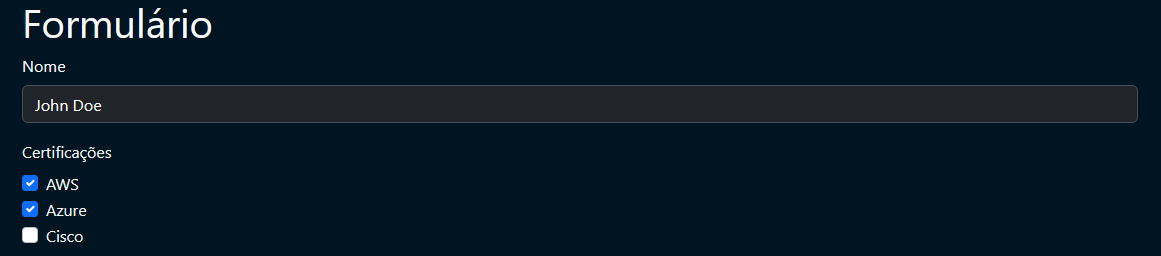
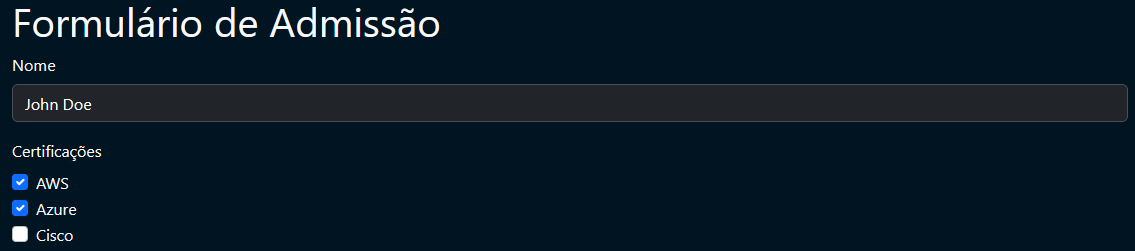
Added form appointment

diff --git a/frontend-angular/src/app/components/criar-formulario/criar-formulario.component.ts b/frontend-angular/src/app/components/criar-formulario/criar-formulario.component.ts
@@ -7,17 +7,19 @@ import { Router } from '@angular/router';
   styleUrls: ['./criar-formulario.component.scss']
 })
 export class CriarFormularioComponent {
+  nomeForms: String;
   maxCampos: Number = 5;
   campos: Array<CampoInterface>;
   tiposCampos = [
     {id: 0, nome: "Texto Simples"},
     {id: 1, nome: "Texto Grande"},
-    {id: 2, nome: "Combo Box"}
+    {id: 2, nome: "Check Box"}
   ];
   msgErro: String = "";
   msg: String = "";
 
   constructor(private router: Router) {
+    this.nomeForms = "";
     this.campos = new Array();
   }
 
@@ -35,9 +37,15 @@ export class CriarFormularioComponent {
     var flagErro = 0;
 
     // Filtragem
+    if(this.nomeForms === "") {
+      this.msgErro = "Insira um nome para o formulário";
+      flagErro = -1;
+      return;
+    }
     if(this.campos.length <= 0) {
       this.msgErro = "Nenhum campo adicionado";
-        return;
+      flagErro = -1;
+      return;
     }
     this.campos.forEach(campo => {
       if(typeof campo.label !== 'string' || campo.label.length === 0) {
@@ -60,6 +68,7 @@ export class CriarFormularioComponent {
         flagErro = -1;
         return;
       }
+      campo.nomeFormulario = this.nomeForms;
     });
     
     if(flagErro === -1) return; 

diff --git a/backend/app/controllers/postagem.controller.js b/backend/app/controllers/postagem.controller.js
@@ -5,14 +5,19 @@ const criarPostagem = async (req, res, next) => {
     var message = "";
     var corpo = {};
     if(req.body !== null) {
+        var nomeFormulario;
         for(let i=0;i<req.body.length;i++) {
-            if(req.body[i].idCampo !== null && req.body[i].resposta !== null) {
+            if(req.body[i].idCampo !== null && req.body[i].resposta !== null && req.body[i].nomeFormulario !== null) {
                 let idCampo = req.body[i].idCampo;
                 let resposta = req.body[i].resposta;
+                nomeFormulario = req.body[i].nomeFormulario;
                 corpo[idCampo] = resposta;
             }
         }
+        console.log(nomeFormulario);
+        console.log(corpo);
         await Post.create({
+            nomeForm: nomeFormulario,
             respostas: corpo
         }).then(data => {
             status = 200;

diff --git a/frontend-angular/src/app/components/preencher-formulario/preencher-formulario.component.ts b/frontend-angular/src/app/components/preencher-formulario/preencher-formulario.component.ts
@@ -51,6 +51,7 @@ export class PreencherFormularioComponent {
       // Inicia cada slot da variável post com base na interface de post
       this.posts[i] = {} as PostInterface;
       this.posts[i].idCampo = this.campos[i].idCampo;
+      this.posts[i].nomeFormulario = this.campos[i].nomeFormulario;
       
       // Se for do tipo Checkbox, buscamos a id no dicionario de checkboxes e atribuimos à resposta
       if(this.campos[i].tipo === 2) {
@@ -60,7 +61,8 @@ export class PreencherFormularioComponent {
             this.posts[i].resposta = this.checkbox[key];
           }
         }
-      }else {
+
+      } else {
         // Filtro de textos
         if(this.resposta[i] == null) {
           this.msgErro = "Preencha os campos de texto";

diff --git a/frontend-angular/src/app/components/criar-formulario/criar-formulario.component.html b/frontend-angular/src/app/components/criar-formulario/criar-formulario.component.html
@@ -1,5 +1,8 @@
 <div class="container mt-5">
     <h1 class="text-light ps-3">Parametrização de Formulário</h1>
+    <div class="input-group input-group-lg" width="50%">
+        <input [(ngModel)]="this.nomeForms" type="text" class="form-control" placeholder="Nome do Formulário">
+      </div>
     <table class="table table-dark table-bordered mt-3">
         <thead>
             <th scope="col">#</th>

diff --git a/frontend-angular/src/app/components/preencher-formulario/preencher-formulario.component.html b/frontend-angular/src/app/components/preencher-formulario/preencher-formulario.component.html
@@ -1,5 +1,5 @@
 <div class="container text-light mt-5" *ngIf="this.campos.length > 0">
-    <h1>Formulário</h1>
+    <h1>{{this.campos[0].nomeFormulario}}</h1>
     <form (ngSubmit)="enviarForm()">
       <div class="mb-3" *ngFor="let item of this.campos; let i = index;">
         <label for="formInput" class="form-label">{{this.campos[i].label}}</label>

diff --git a/backend/app/models/post.model.js b/backend/app/models/post.model.js
@@ -8,6 +8,9 @@ const Post = database.define('post', {
         allowNull: false,
         primaryKey: true
     },
+    nomeForm: {
+        type: Sequelize.STRING
+    },
     respostas: {
         type: Sequelize.JSON
     }

diff --git a/frontend-angular/src/app/interfaces/campo.interface.ts b/frontend-angular/src/app/interfaces/campo.interface.ts
@@ -1,4 +1,5 @@
 export interface CampoInterface {
+    nomeFormulario: String,
     label: String,
     idCampo: String,
     // 0 - Texto Simples

diff --git a/frontend-angular/src/app/interfaces/post.interface.ts b/frontend-angular/src/app/interfaces/post.interface.ts
@@ -1,4 +1,5 @@
 export interface PostInterface {
+    nomeFormulario: String,
     idCampo: String,
     resposta: String | Object
 }
